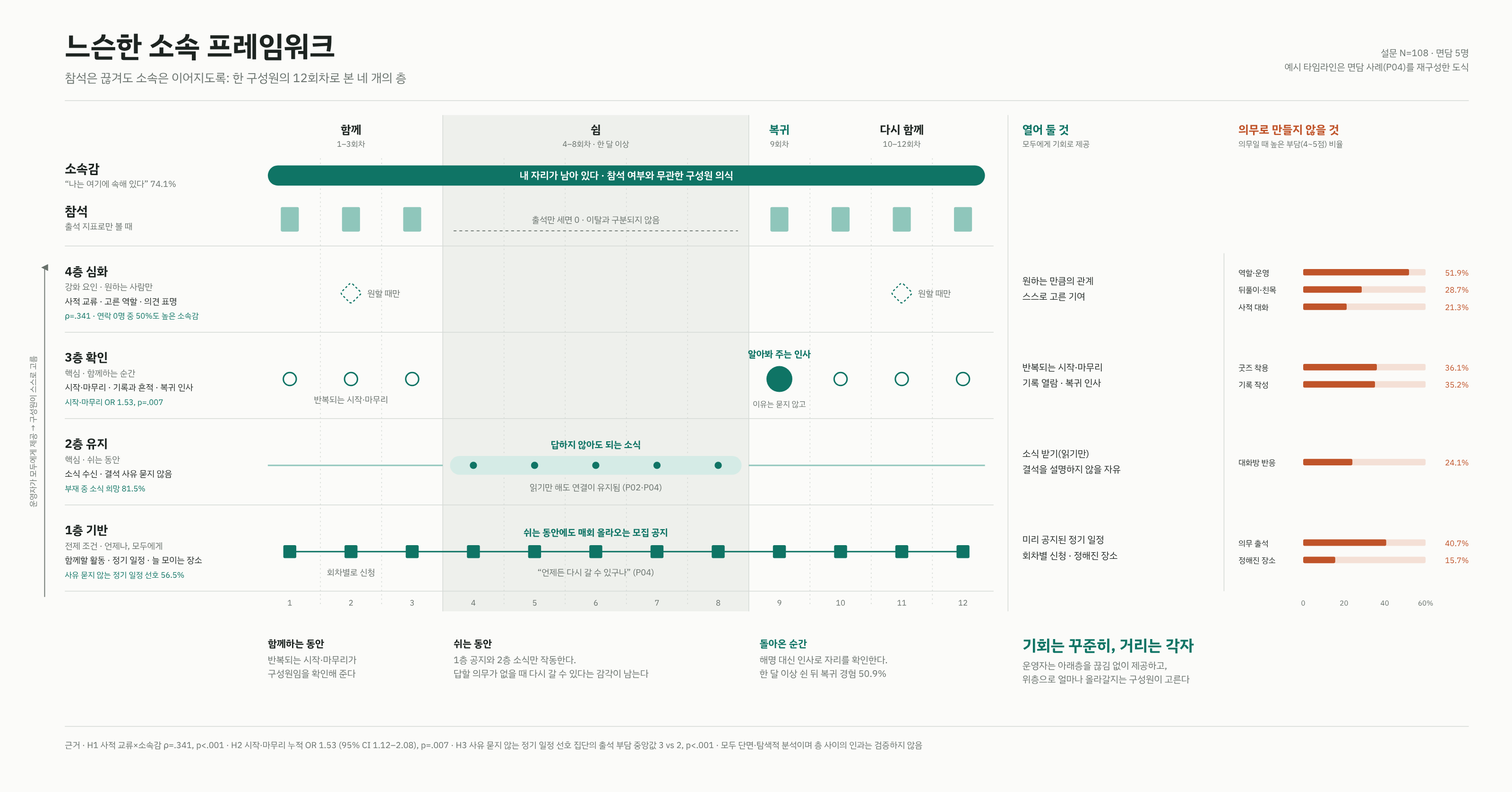
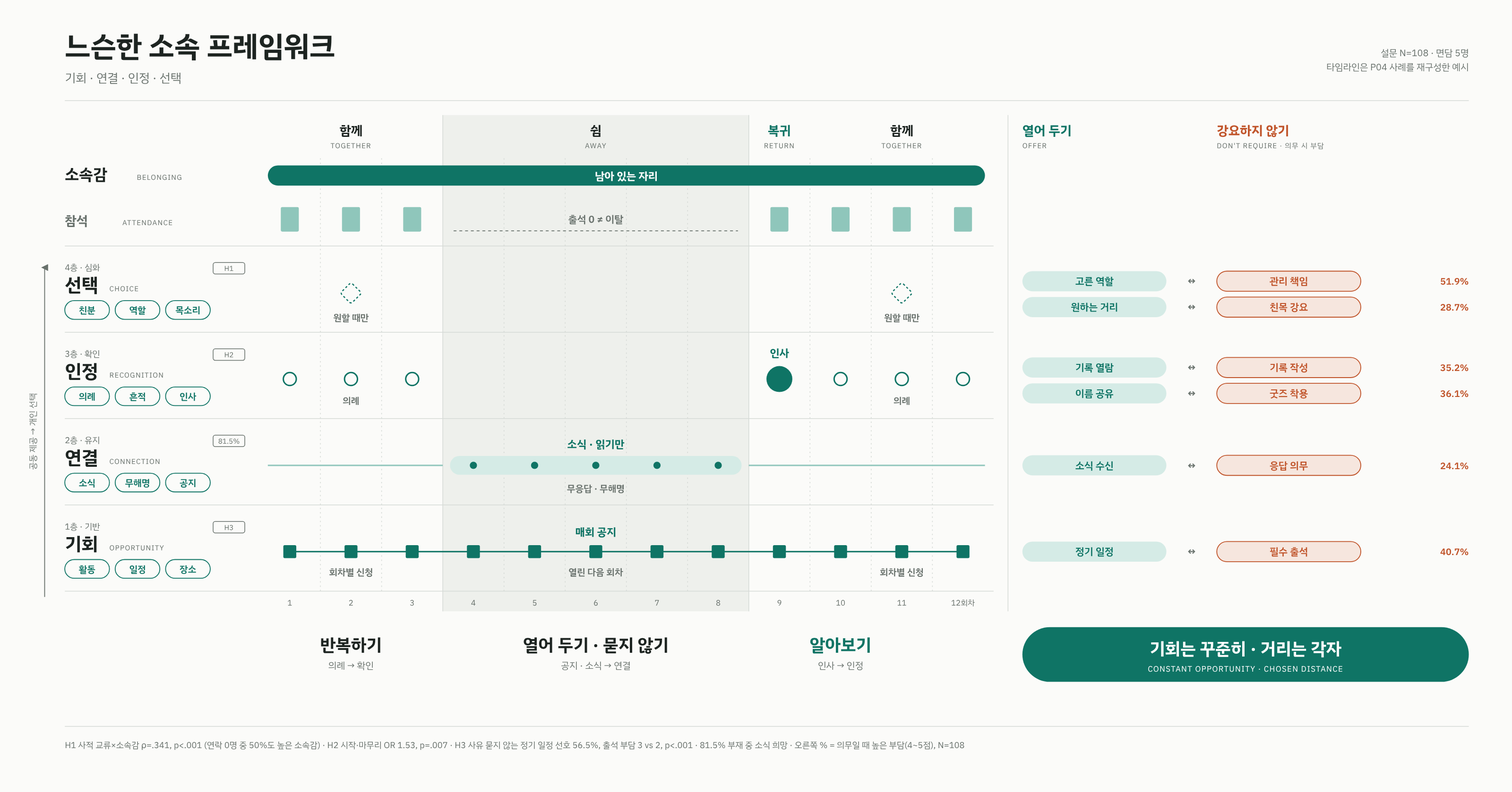
Restructure framework diagram around keywords
Claude-Session: https://claude.ai/code/session_01UNjDKvkuGLDcrXf3LnVk2t

diff --git a/thesis-framework/framework-poster.html b/thesis-framework/framework-poster.html
@@ -3,22 +3,22 @@
 <link rel="preconnect" href="https://fonts.googleapis.com">
 <link rel="stylesheet" href="https://fonts.googleapis.com/css2?family=IBM+Plex+Sans+KR:wght@400;500;600;700&display=swap">
 <style>
-/* Layout: one member's 12-session timeline as a score. Rows = layers (bottom: offered to all, top: chosen by each);
-   columns = time (together / away / back). Right margin = what to offer vs. what not to make mandatory. */
+/* Layout: keyword score. Rows = four layers (bottom: offered to all → top: chosen by each), columns = one member's 12 sessions
+   (together / away / back). Every label is a keyword; numbers live in small tags and the footnote. */
 :root{
   --bg:#fbfbf9; --ink:#1d2421; --muted:#68716c; --line:#d5dad6;
   --accent:#0f7465; --accent-soft:#d5ebe6; --accent-mid:#8fc6bb; --on-accent:#ffffff;
-  --burden:#c0542a; --burden-soft:#f4e0d6; --away:#eef0ec;
+  --burden:#c0542a; --burden-soft:#f6e6de; --away:#eef0ec;
   --ko:"IBM Plex Sans KR","Apple SD Gothic Neo","Malgun Gothic",system-ui,sans-serif;
 }
 @media (prefers-color-scheme: dark){ :root:not([data-theme="light"]){
   --bg:#121614; --ink:#e3e8e5; --muted:#9aa39e; --line:#303833;
   --accent:#5cc2ae; --accent-soft:#173a33; --accent-mid:#2f7a6c; --on-accent:#0d1412;
-  --burden:#e98b60; --burden-soft:#3b2519; --away:#1a1f1c; color-scheme:dark }}
+  --burden:#e98b60; --burden-soft:#33221a; --away:#1a1f1c; color-scheme:dark }}
 :root[data-theme="dark"]{
   --bg:#121614; --ink:#e3e8e5; --muted:#9aa39e; --line:#303833;
   --accent:#5cc2ae; --accent-soft:#173a33; --accent-mid:#2f7a6c; --on-accent:#0d1412;
-  --burden:#e98b60; --burden-soft:#3b2519; --away:#1a1f1c; color-scheme:dark }
+  --burden:#e98b60; --burden-soft:#33221a; --away:#1a1f1c; color-scheme:dark }
 
 body{background:var(--bg);color:var(--ink);font-family:var(--ko);
   padding-left:max(16px,env(safe-area-inset-left,0px));padding-right:max(16px,env(safe-area-inset-right,0px));padding-block:24px 40px}
@@ -28,127 +28,151 @@ body{background:var(--bg);color:var(--ink);font-family:var(--ko);
 
 svg text{font-family:var(--ko);fill:var(--ink)}
 svg .mut{fill:var(--muted)} svg .acc{fill:var(--accent)} svg .bur{fill:var(--burden)} svg .on{fill:var(--on-accent)}
-svg .bg{fill:var(--bg)}
+svg .en{letter-spacing:.08em}
 svg .away{fill:var(--away)}
 svg .rule{stroke:var(--line);stroke-width:1;fill:none}
 svg .grid{stroke:var(--line);stroke-width:1;stroke-dasharray:2 4;fill:none}
 svg .fillA{fill:var(--accent)} svg .fillS{fill:var(--accent-soft)} svg .fillM{fill:var(--accent-mid)}
-svg .strA{stroke:var(--accent);fill:none;stroke-width:2}
 svg .ring{fill:var(--bg);stroke:var(--accent);stroke-width:2}
 svg .opt{fill:var(--bg);stroke:var(--accent);stroke-width:1.6;stroke-dasharray:3 3}
 svg .ghost{fill:none;stroke:var(--muted);stroke-width:1.2;stroke-dasharray:4 4}
-svg .btrack{fill:var(--burden-soft)} svg .bfill{fill:var(--burden)}
+svg .chip{fill:var(--bg);stroke:var(--accent);stroke-width:1.2}
+svg .chipS{fill:var(--accent-soft);stroke:none}
+svg .chipB{fill:var(--burden-soft);stroke:var(--burden);stroke-width:1.2}
+svg .tag{fill:none;stroke:var(--muted);stroke-width:1}
 svg .arrowM{fill:var(--muted)}
 </style>
 
 <div class="fig">
-<svg viewBox="0 0 2100 1100" role="img" aria-label="한 구성원의 12회차 타임라인 위에 네 개의 층이 언제 작동하는지 보여주는 느슨한 소속 프레임워크">
+<svg viewBox="0 0 2100 1100" role="img" aria-label="키워드로 정리한 느슨한 소속 프레임워크: 네 층(기회, 연결, 인정, 선택)이 함께, 쉼, 복귀의 시간 위에서 작동하는 방식">
 <defs>
   <marker id="up" viewBox="0 0 10 10" refX="5" refY="5" markerWidth="8" markerHeight="8" orient="auto"><path class="arrowM" d="M0,10 L5,0 L10,10 z"/></marker>
 </defs>
 
 <!-- ===== Title ===== -->
 <text x="90" y="78" font-size="40" font-weight="700">느슨한 소속 프레임워크</text>
-<text x="90" y="114" font-size="17" class="mut">참석은 끊겨도 소속은 이어지도록: 한 구성원의 12회차로 본 네 개의 층</text>
+<text x="90" y="114" font-size="17" class="mut">기회 · 연결 · 인정 · 선택</text>
 <text x="2040" y="78" text-anchor="end" font-size="13" class="mut">설문 N=108 · 면담 5명</text>
-<text x="2040" y="98" text-anchor="end" font-size="13" class="mut">예시 타임라인은 면담 사례(P04)를 재구성한 도식</text>
+<text x="2040" y="98" text-anchor="end" font-size="13" class="mut">타임라인은 P04 사례를 재구성한 예시</text>
 <line class="rule" x1="90" y1="140" x2="2040" y2="140"/>
 
 <!-- ===== Absence shading ===== -->
 <rect class="away" x="615" y="160" width="425" height="690"/>
 
 <!-- ===== Column headers ===== -->
-<g font-size="16" font-weight="700" text-anchor="middle">
-  <text x="487.5" y="186">함께</text>
-  <text x="827.5" y="186">쉼</text>
-  <text x="1082.5" y="186" class="acc">복귀</text>
-  <text x="1252.5" y="186">다시 함께</text>
+<g font-size="18" font-weight="700" text-anchor="middle">
+  <text x="487.5" y="188">함께</text>
+  <text x="827.5" y="188">쉼</text>
+  <text x="1082.5" y="188" class="acc">복귀</text>
+  <text x="1252.5" y="188">함께</text>
 </g>
-<g font-size="11" text-anchor="middle" class="mut">
-  <text x="487.5" y="204" class="mut">1–3회차</text>
-  <text x="827.5" y="204" class="mut">4–8회차 · 한 달 이상</text>
-  <text x="1082.5" y="204" class="mut">9회차</text>
-  <text x="1252.5" y="204" class="mut">10–12회차</text>
+<g font-size="10" text-anchor="middle" class="en">
+  <text x="487.5" y="206" class="en mut">TOGETHER</text>
+  <text x="827.5" y="206" class="en mut">AWAY</text>
+  <text x="1082.5" y="206" class="en mut">RETURN</text>
+  <text x="1252.5" y="206" class="en mut">TOGETHER</text>
 </g>
-<text x="1420" y="186" font-size="16" font-weight="700" class="acc">열어 둘 것</text>
-<text x="1420" y="204" font-size="11" class="mut">모두에게 기회로 제공</text>
-<text x="1720" y="186" font-size="16" font-weight="700" class="bur">의무로 만들지 않을 것</text>
-<text x="1720" y="204" font-size="11" class="mut">의무일 때 높은 부담(4~5점) 비율</text>
+<text x="1420" y="188" font-size="18" font-weight="700" class="acc">열어 두기</text>
+<text x="1420" y="206" font-size="10" class="en mut">OFFER</text>
+<text x="1690" y="188" font-size="18" font-weight="700" class="bur">강요하지 않기</text>
+<text x="1690" y="206" font-size="10" class="en mut">DON'T REQUIRE · 의무 시 부담</text>
 
 <!-- week grid -->
 <g class="grid">
-  <line x1="445" y1="220" x2="445" y2="840"/><line x1="530" y1="220" x2="530" y2="840"/>
-  <line x1="700" y1="220" x2="700" y2="840"/><line x1="785" y1="220" x2="785" y2="840"/>
-  <line x1="870" y1="220" x2="870" y2="840"/><line x1="955" y1="220" x2="955" y2="840"/>
-  <line x1="1125" y1="220" x2="1125" y2="840"/><line x1="1210" y1="220" x2="1210" y2="840"/><line x1="1295" y1="220" x2="1295" y2="840"/>
+  <line x1="445" y1="220" x2="445" y2="822"/><line x1="530" y1="220" x2="530" y2="822"/>
+  <line x1="700" y1="220" x2="700" y2="822"/><line x1="785" y1="220" x2="785" y2="822"/>
+  <line x1="870" y1="220" x2="870" y2="822"/><line x1="955" y1="220" x2="955" y2="822"/>
+  <line x1="1125" y1="220" x2="1125" y2="822"/><line x1="1210" y1="220" x2="1210" y2="822"/><line x1="1295" y1="220" x2="1295" y2="822"/>
 </g>
 <line class="rule" x1="615" y1="160" x2="615" y2="850"/><line class="rule" x1="1040" y1="160" x2="1040" y2="850"/>
 
 <!-- ===== Row: 소속감 ===== -->
-<text x="90" y="241" font-size="18" font-weight="700">소속감</text>
-<text x="90" y="260" font-size="12" class="mut">“나는 여기에 속해 있다” 74.1%</text>
+<text x="90" y="250" font-size="22" font-weight="700">소속감</text>
+<text x="190" y="250" font-size="10" class="en mut">BELONGING</text>
 <rect class="fillA" x="372" y="230" width="996" height="28" rx="14"/>
-<text x="870" y="249" text-anchor="middle" font-size="14" font-weight="600" class="on">내 자리가 남아 있다 · 참석 여부와 무관한 구성원 의식</text>
+<text x="870" y="250" text-anchor="middle" font-size="15" font-weight="700" class="on">남아 있는 자리</text>
 
 <!-- ===== Row: 참석 ===== -->
-<text x="90" y="300" font-size="18" font-weight="700">참석</text>
-<text x="90" y="319" font-size="12" class="mut">출석 지표로만 볼 때</text>
+<text x="90" y="313" font-size="18" font-weight="700" class="mut">참석</text>
+<text x="170" y="313" font-size="10" class="en mut">ATTENDANCE</text>
 <g class="fillM">
   <rect x="390" y="288" width="25" height="34" rx="2"/><rect x="475" y="288" width="25" height="34" rx="2"/><rect x="560" y="288" width="25" height="34" rx="2"/>
   <rect x="1070" y="288" width="25" height="34" rx="2"/><rect x="1155" y="288" width="25" height="34" rx="2"/><rect x="1240" y="288" width="25" height="34" rx="2"/><rect x="1325" y="288" width="25" height="34" rx="2"/>
 </g>
 <line class="ghost" x1="630" y1="321" x2="1025" y2="321"/>
-<text x="827.5" y="310" text-anchor="middle" font-size="12" class="mut">출석만 세면 0 · 이탈과 구분되지 않음</text>
+<text x="827.5" y="310" text-anchor="middle" font-size="14" font-weight="600" class="mut">출석 0 ≠ 이탈</text>
 <line class="rule" x1="90" y1="342" x2="1380" y2="342"/>
 
 <!-- ===== Layer axis ===== -->
 <line x1="62" y1="830" x2="62" y2="372" stroke="var(--muted)" stroke-width="1.2" marker-end="url(#up)"/>
-<text transform="translate(50 600) rotate(-90)" text-anchor="middle" font-size="11" class="mut">운영자가 모두에게 제공 → 구성원이 스스로 고름</text>
+<text transform="translate(50 600) rotate(-90)" text-anchor="middle" font-size="12" class="mut">공동 제공 → 개인 선택</text>
 
-<!-- ===== L4 심화 (y 352–462, mid 407) ===== -->
-<text x="90" y="383" font-size="17" font-weight="700">4층 심화</text>
-<text x="90" y="403" font-size="12" class="mut">강화 요인 · 원하는 사람만</text>
-<text x="90" y="423" font-size="12">사적 교류 · 고른 역할 · 의견 표명</text>
-<text x="90" y="443" font-size="11" class="acc">ρ=.341 · 연락 0명 중 50%도 높은 소속감</text>
+<!-- ===== Layer labels (number · keyword · english · chips · evidence) ===== -->
+<!-- L4 mid 407 -->
+<text x="90" y="376" font-size="12" class="mut">4층 · 심화</text>
+<rect class="tag" x="296" y="365" width="44" height="16" rx="3"/><text x="318" y="377" text-anchor="middle" font-size="10" class="mut">H1</text>
+<text x="90" y="405" font-size="26" font-weight="700">선택</text>
+<text x="152" y="405" font-size="10" class="en mut">CHOICE</text>
+<g font-size="13" font-weight="600" text-anchor="middle">
+  <rect class="chip" x="90" y="418" width="62" height="26" rx="13"/><text x="121" y="436" class="acc">친분</text>
+  <rect class="chip" x="160" y="418" width="62" height="26" rx="13"/><text x="191" y="436" class="acc">역할</text>
+  <rect class="chip" x="230" y="418" width="62" height="26" rx="13"/><text x="261" y="436" class="acc">목소리</text>
+</g>
+<!-- L3 mid 527 -->
+<text x="90" y="496" font-size="12" class="mut">3층 · 확인</text>
+<rect class="tag" x="296" y="485" width="44" height="16" rx="3"/><text x="318" y="497" text-anchor="middle" font-size="10" class="mut">H2</text>
+<text x="90" y="525" font-size="26" font-weight="700">인정</text>
+<text x="152" y="525" font-size="10" class="en mut">RECOGNITION</text>
+<g font-size="13" font-weight="600" text-anchor="middle">
+  <rect class="chip" x="90" y="538" width="62" height="26" rx="13"/><text x="121" y="556" class="acc">의례</text>
+  <rect class="chip" x="160" y="538" width="62" height="26" rx="13"/><text x="191" y="556" class="acc">흔적</text>
+  <rect class="chip" x="230" y="538" width="62" height="26" rx="13"/><text x="261" y="556" class="acc">인사</text>
+</g>
+<!-- L2 mid 647 -->
+<text x="90" y="616" font-size="12" class="mut">2층 · 유지</text>
+<rect class="tag" x="296" y="605" width="44" height="16" rx="3"/><text x="318" y="617" text-anchor="middle" font-size="10" class="mut">81.5%</text>
+<text x="90" y="645" font-size="26" font-weight="700">연결</text>
+<text x="152" y="645" font-size="10" class="en mut">CONNECTION</text>
+<g font-size="13" font-weight="600" text-anchor="middle">
+  <rect class="chip" x="90" y="658" width="62" height="26" rx="13"/><text x="121" y="676" class="acc">소식</text>
+  <rect class="chip" x="160" y="658" width="62" height="26" rx="13"/><text x="191" y="676" class="acc">무해명</text>
+  <rect class="chip" x="230" y="658" width="62" height="26" rx="13"/><text x="261" y="676" class="acc">공지</text>
+</g>
+<!-- L1 mid 767 -->
+<text x="90" y="736" font-size="12" class="mut">1층 · 기반</text>
+<rect class="tag" x="296" y="725" width="44" height="16" rx="3"/><text x="318" y="737" text-anchor="middle" font-size="10" class="mut">H3</text>
+<text x="90" y="765" font-size="26" font-weight="700">기회</text>
+<text x="152" y="765" font-size="10" class="en mut">OPPORTUNITY</text>
+<g font-size="13" font-weight="600" text-anchor="middle">
+  <rect class="chip" x="90" y="778" width="62" height="26" rx="13"/><text x="121" y="796" class="acc">활동</text>
+  <rect class="chip" x="160" y="778" width="62" height="26" rx="13"/><text x="191" y="796" class="acc">일정</text>
+  <rect class="chip" x="230" y="778" width="62" height="26" rx="13"/><text x="261" y="796" class="acc">장소</text>
+</g>
+<g><line class="rule" x1="90" y1="462" x2="1380" y2="462"/><line class="rule" x1="90" y1="582" x2="1380" y2="582"/><line class="rule" x1="90" y1="702" x2="1380" y2="702"/><line class="rule" x1="90" y1="822" x2="1380" y2="822"/></g>
+
+<!-- ===== L4 marks ===== -->
 <rect class="opt" x="477" y="397" width="21" height="21" rx="3" transform="rotate(45 487.5 407.5)"/>
 <rect class="opt" x="1242" y="397" width="21" height="21" rx="3" transform="rotate(45 1252.5 407.5)"/>
-<text x="510" y="412" font-size="12" class="mut">원할 때만</text>
-<text x="1275" y="412" font-size="12" class="mut">원할 때만</text>
-<line class="rule" x1="90" y1="462" x2="1380" y2="462"/>
+<text x="487.5" y="446" text-anchor="middle" font-size="13" font-weight="600" class="mut">원할 때만</text>
+<text x="1252.5" y="446" text-anchor="middle" font-size="13" font-weight="600" class="mut">원할 때만</text>
 
-<!-- ===== L3 확인 (mid 527) ===== -->
-<text x="90" y="503" font-size="17" font-weight="700">3층 확인</text>
-<text x="90" y="523" font-size="12" class="mut">핵심 · 함께하는 순간</text>
-<text x="90" y="543" font-size="12">시작·마무리 · 기록과 흔적 · 복귀 인사</text>
-<text x="90" y="563" font-size="11" class="acc">시작·마무리 OR 1.53, p=.007</text>
-<g>
-  <circle class="ring" cx="402.5" cy="527" r="9"/><circle class="ring" cx="487.5" cy="527" r="9"/><circle class="ring" cx="572.5" cy="527" r="9"/>
-  <circle class="ring" cx="1167.5" cy="527" r="9"/><circle class="ring" cx="1252.5" cy="527" r="9"/><circle class="ring" cx="1337.5" cy="527" r="9"/>
-  <circle class="fillA" cx="1082.5" cy="527" r="18"/>
-</g>
-<text x="487.5" y="560" text-anchor="middle" font-size="12" class="mut">반복되는 시작·마무리</text>
-<text x="1082.5" y="497" text-anchor="middle" font-size="13" font-weight="700" class="acc">알아봐 주는 인사</text>
-<text x="1082.5" y="566" text-anchor="middle" font-size="11" class="mut">이유는 묻지 않고</text>
-<line class="rule" x1="90" y1="582" x2="1380" y2="582"/>
+<!-- ===== L3 marks ===== -->
+<circle class="ring" cx="402.5" cy="527" r="9"/><circle class="ring" cx="487.5" cy="527" r="9"/><circle class="ring" cx="572.5" cy="527" r="9"/>
+<circle class="ring" cx="1167.5" cy="527" r="9"/><circle class="ring" cx="1252.5" cy="527" r="9"/><circle class="ring" cx="1337.5" cy="527" r="9"/>
+<circle class="fillA" cx="1082.5" cy="527" r="18"/>
+<text x="487.5" y="562" text-anchor="middle" font-size="13" font-weight="600" class="mut">의례</text>
+<text x="1082.5" y="496" text-anchor="middle" font-size="15" font-weight="700" class="acc">인사</text>
+<text x="1252.5" y="562" text-anchor="middle" font-size="13" font-weight="600" class="mut">의례</text>
 
-<!-- ===== L2 유지 (mid 647) ===== -->
-<text x="90" y="623" font-size="17" font-weight="700">2층 유지</text>
-<text x="90" y="643" font-size="12" class="mut">핵심 · 쉬는 동안</text>
-<text x="90" y="663" font-size="12">소식 수신 · 결석 사유 묻지 않음</text>
-<text x="90" y="683" font-size="11" class="acc">부재 중 소식 희망 81.5%</text>
+<!-- ===== L2 marks ===== -->
 <line x1="372" y1="647" x2="615" y2="647" stroke="var(--accent-mid)" stroke-width="2"/>
 <line x1="1040" y1="647" x2="1368" y2="647" stroke="var(--accent-mid)" stroke-width="2"/>
 <rect class="fillS" x="625" y="634" width="405" height="26" rx="13"/>
 <g class="fillA"><circle cx="657.5" cy="647" r="5"/><circle cx="742.5" cy="647" r="5"/><circle cx="827.5" cy="647" r="5"/><circle cx="912.5" cy="647" r="5"/><circle cx="997.5" cy="647" r="5"/></g>
-<text x="827.5" y="623" text-anchor="middle" font-size="13" font-weight="700" class="acc">답하지 않아도 되는 소식</text>
-<text x="827.5" y="682" text-anchor="middle" font-size="12" class="mut">읽기만 해도 연결이 유지됨 (P02·P04)</text>
-<line class="rule" x1="90" y1="702" x2="1380" y2="702"/>
+<text x="827.5" y="623" text-anchor="middle" font-size="15" font-weight="700" class="acc">소식 · 읽기만</text>
+<text x="827.5" y="684" text-anchor="middle" font-size="13" font-weight="600" class="mut">무응답 · 무해명</text>
 
-<!-- ===== L1 기반 (mid 767) ===== -->
-<text x="90" y="743" font-size="17" font-weight="700">1층 기반</text>
-<text x="90" y="763" font-size="12" class="mut">전제 조건 · 언제나, 모두에게</text>
-<text x="90" y="783" font-size="12">함께할 활동 · 정기 일정 · 늘 모이는 장소</text>
-<text x="90" y="803" font-size="11" class="acc">사유 묻지 않는 정기 일정 선호 56.5%</text>
+<!-- ===== L1 marks ===== -->
 <line x1="402.5" y1="767" x2="1337.5" y2="767" stroke="var(--accent)" stroke-width="2"/>
 <g class="fillA">
   <rect x="393.5" y="758" width="18" height="18" rx="2"/><rect x="478.5" y="758" width="18" height="18" rx="2"/><rect x="563.5" y="758" width="18" height="18" rx="2"/>
@@ -156,63 +180,64 @@ svg .arrowM{fill:var(--muted)}
   <rect x="903.5" y="758" width="18" height="18" rx="2"/><rect x="988.5" y="758" width="18" height="18" rx="2"/><rect x="1073.5" y="758" width="18" height="18" rx="2"/>
   <rect x="1158.5" y="758" width="18" height="18" rx="2"/><rect x="1243.5" y="758" width="18" height="18" rx="2"/><rect x="1328.5" y="758" width="18" height="18" rx="2"/>
 </g>
-<text x="827.5" y="745" text-anchor="middle" font-size="13" font-weight="700" class="acc">쉬는 동안에도 매회 올라오는 모집 공지</text>
-<text x="827.5" y="800" text-anchor="middle" font-size="12" class="mut">“언제든 다시 갈 수 있구나” (P04)</text>
-<text x="487.5" y="800" text-anchor="middle" font-size="12" class="mut">회차별로 신청</text>
-<line class="rule" x1="90" y1="822" x2="1380" y2="822"/>
-<g font-size="11" text-anchor="middle" class="mut">
+<text x="827.5" y="745" text-anchor="middle" font-size="15" font-weight="700" class="acc">매회 공지</text>
+<text x="827.5" y="800" text-anchor="middle" font-size="13" font-weight="600" class="mut">열린 다음 회차</text>
+<text x="487.5" y="800" text-anchor="middle" font-size="13" font-weight="600" class="mut">회차별 신청</text>
+<text x="1252.5" y="800" text-anchor="middle" font-size="13" font-weight="600" class="mut">회차별 신청</text>
+<g font-size="11" text-anchor="middle">
   <text x="402.5" y="842" class="mut">1</text><text x="487.5" y="842" class="mut">2</text><text x="572.5" y="842" class="mut">3</text><text x="657.5" y="842" class="mut">4</text>
   <text x="742.5" y="842" class="mut">5</text><text x="827.5" y="842" class="mut">6</text><text x="912.5" y="842" class="mut">7</text><text x="997.5" y="842" class="mut">8</text>
-  <text x="1082.5" y="842" class="mut">9</text><text x="1167.5" y="842" class="mut">10</text><text x="1252.5" y="842" class="mut">11</text><text x="1337.5" y="842" class="mut">12</text>
+  <text x="1082.5" y="842" class="mut">9</text><text x="1167.5" y="842" class="mut">10</text><text x="1252.5" y="842" class="mut">11</text><text x="1337.5" y="842" class="mut">12회차</text>
 </g>
 
-<!-- ===== Right margin: offer vs. not mandatory ===== -->
+<!-- ===== Right margin: keyword pairs ===== -->
 <line class="rule" x1="1400" y1="160" x2="1400" y2="850"/>
-<line class="rule" x1="1700" y1="352" x2="1700" y2="822"/>
-<g font-size="13">
-  <text x="1420" y="395">원하는 만큼의 관계</text><text x="1420" y="417">스스로 고른 기여</text>
-  <text x="1420" y="515">반복되는 시작·마무리</text><text x="1420" y="537">기록 열람 · 복귀 인사</text>
-  <text x="1420" y="635">소식 받기(읽기만)</text><text x="1420" y="657">결석을 설명하지 않을 자유</text>
-  <text x="1420" y="755">미리 공지된 정기 일정</text><text x="1420" y="777">회차별 신청 · 정해진 장소</text>
+<g font-size="14" font-weight="600" text-anchor="middle">
+  <!-- L4 -->
+  <rect class="chipS" x="1420" y="377" width="200" height="28" rx="14"/><text x="1520" y="396" class="acc">고른 역할</text>
+  <text x="1655" y="396" class="mut">↔</text>
+  <rect class="chipB" x="1690" y="377" width="200" height="28" rx="14"/><text x="1790" y="396" class="bur">관리 책임</text>
+  <rect class="chipS" x="1420" y="413" width="200" height="28" rx="14"/><text x="1520" y="432" class="acc">원하는 거리</text>
+  <text x="1655" y="432" class="mut">↔</text>
+  <rect class="chipB" x="1690" y="413" width="200" height="28" rx="14"/><text x="1790" y="432" class="bur">친목 강요</text>
+  <!-- L3 -->
+  <rect class="chipS" x="1420" y="497" width="200" height="28" rx="14"/><text x="1520" y="516" class="acc">기록 열람</text>
+  <text x="1655" y="516" class="mut">↔</text>
+  <rect class="chipB" x="1690" y="497" width="200" height="28" rx="14"/><text x="1790" y="516" class="bur">기록 작성</text>
+  <rect class="chipS" x="1420" y="533" width="200" height="28" rx="14"/><text x="1520" y="552" class="acc">이름 공유</text>
+  <text x="1655" y="552" class="mut">↔</text>
+  <rect class="chipB" x="1690" y="533" width="200" height="28" rx="14"/><text x="1790" y="552" class="bur">굿즈 착용</text>
+  <!-- L2 -->
+  <rect class="chipS" x="1420" y="633" width="200" height="28" rx="14"/><text x="1520" y="652" class="acc">소식 수신</text>
+  <text x="1655" y="652" class="mut">↔</text>
+  <rect class="chipB" x="1690" y="633" width="200" height="28" rx="14"/><text x="1790" y="652" class="bur">응답 의무</text>
+  <!-- L1 -->
+  <rect class="chipS" x="1420" y="753" width="200" height="28" rx="14"/><text x="1520" y="772" class="acc">정기 일정</text>
+  <text x="1655" y="772" class="mut">↔</text>
+  <rect class="chipB" x="1690" y="753" width="200" height="28" rx="14"/><text x="1790" y="772" class="bur">필수 출석</text>
 </g>
-<!-- bars: scale 0–60% over 170px from x=1810 -->
-<g font-size="11">
-  <text x="1720" y="383">역할·운영</text><rect class="btrack" x="1810" y="374" width="170" height="9" rx="2"/><rect class="bfill" x="1810" y="374" width="147" height="9" rx="2"/><text x="2040" y="383" text-anchor="end" class="bur">51.9%</text>
-  <text x="1720" y="407">뒤풀이·친목</text><rect class="btrack" x="1810" y="398" width="170" height="9" rx="2"/><rect class="bfill" x="1810" y="398" width="81.3" height="9" rx="2"/><text x="2040" y="407" text-anchor="end" class="bur">28.7%</text>
-  <text x="1720" y="431">사적 대화</text><rect class="btrack" x="1810" y="422" width="170" height="9" rx="2"/><rect class="bfill" x="1810" y="422" width="60.4" height="9" rx="2"/><text x="2040" y="431" text-anchor="end" class="bur">21.3%</text>
-
-  <text x="1720" y="515">굿즈 착용</text><rect class="btrack" x="1810" y="506" width="170" height="9" rx="2"/><rect class="bfill" x="1810" y="506" width="102.3" height="9" rx="2"/><text x="2040" y="515" text-anchor="end" class="bur">36.1%</text>
-  <text x="1720" y="539">기록 작성</text><rect class="btrack" x="1810" y="530" width="170" height="9" rx="2"/><rect class="bfill" x="1810" y="530" width="99.7" height="9" rx="2"/><text x="2040" y="539" text-anchor="end" class="bur">35.2%</text>
-
-  <text x="1720" y="647">대화방 반응</text><rect class="btrack" x="1810" y="638" width="170" height="9" rx="2"/><rect class="bfill" x="1810" y="638" width="68.3" height="9" rx="2"/><text x="2040" y="647" text-anchor="end" class="bur">24.1%</text>
-
-  <text x="1720" y="759">의무 출석</text><rect class="btrack" x="1810" y="750" width="170" height="9" rx="2"/><rect class="bfill" x="1810" y="750" width="115.3" height="9" rx="2"/><text x="2040" y="759" text-anchor="end" class="bur">40.7%</text>
-  <text x="1720" y="783">정해진 장소</text><rect class="btrack" x="1810" y="774" width="170" height="9" rx="2"/><rect class="bfill" x="1810" y="774" width="44.5" height="9" rx="2"/><text x="2040" y="783" text-anchor="end" class="bur">15.7%</text>
-</g>
-<g font-size="10" class="mut" text-anchor="middle">
-  <text x="1810" y="842" class="mut">0</text><text x="1866.7" y="842" class="mut">20</text><text x="1923.3" y="842" class="mut">40</text><text x="1980" y="842" class="mut">60%</text>
+<g font-size="13" font-weight="600" text-anchor="end">
+  <text x="2040" y="396" class="bur">51.9%</text><text x="2040" y="432" class="bur">28.7%</text>
+  <text x="2040" y="516" class="bur">35.2%</text><text x="2040" y="552" class="bur">36.1%</text>
+  <text x="2040" y="652" class="bur">24.1%</text>
+  <text x="2040" y="772" class="bur">40.7%</text>
 </g>
 
-<!-- ===== Reading by moment ===== -->
-<g>
-  <text x="372" y="900" font-size="14" font-weight="700">함께하는 동안</text>
-  <text x="372" y="922" font-size="13" class="mut">반복되는 시작·마무리가</text>
-  <text x="372" y="941" font-size="13" class="mut">구성원임을 확인해 준다</text>
-
-  <text x="630" y="900" font-size="14" font-weight="700">쉬는 동안</text>
-  <text x="630" y="922" font-size="13" class="mut">1층 공지와 2층 소식만 작동한다.</text>
-  <text x="630" y="941" font-size="13" class="mut">답할 의무가 없을 때 다시 갈 수 있다는 감각이 남는다</text>
-
-  <text x="1055" y="900" font-size="14" font-weight="700" class="acc">돌아온 순간</text>
-  <text x="1055" y="922" font-size="13" class="mut">해명 대신 인사로 자리를 확인한다.</text>
-  <text x="1055" y="941" font-size="13" class="mut">한 달 이상 쉰 뒤 복귀 경험 50.9%</text>
+<!-- ===== Design verbs by moment ===== -->
+<g text-anchor="middle">
+  <text x="487.5" y="905" font-size="24" font-weight="700">반복하기</text>
+  <text x="487.5" y="930" font-size="13" class="mut">의례 → 확인</text>
+  <text x="827.5" y="905" font-size="24" font-weight="700">열어 두기 · 묻지 않기</text>
+  <text x="827.5" y="930" font-size="13" class="mut">공지 · 소식 → 연결</text>
+  <text x="1167.5" y="905" font-size="24" font-weight="700" class="acc">알아보기</text>
+  <text x="1167.5" y="930" font-size="13" class="mut">인사 → 인정</text>
 </g>
-<text x="1420" y="905" font-size="22" font-weight="700" class="acc">기회는 꾸준히, 거리는 각자</text>
-<text x="1420" y="930" font-size="13" class="mut">운영자는 아래층을 끊김 없이 제공하고,</text>
-<text x="1420" y="949" font-size="13" class="mut">위층으로 얼마나 올라갈지는 구성원이 고른다</text>
+<rect class="fillA" x="1420" y="872" width="620" height="76" rx="38"/>
+<text x="1730" y="910" text-anchor="middle" font-size="24" font-weight="700" class="on">기회는 꾸준히 · 거리는 각자</text>
+<text x="1730" y="934" text-anchor="middle" font-size="11" class="en on">CONSTANT OPPORTUNITY · CHOSEN DISTANCE</text>
 
 <line class="rule" x1="90" y1="1010" x2="2040" y2="1010"/>
-<text x="90" y="1040" font-size="12" class="mut">근거 · H1 사적 교류×소속감 ρ=.341, p&lt;.001 · H2 시작·마무리 누적 OR 1.53 (95% CI 1.12–2.08), p=.007 · H3 사유 묻지 않는 정기 일정 선호 집단의 출석 부담 중앙값 3 vs 2, p&lt;.001 · 모두 단면·탐색적 분석이며 층 사이의 인과는 검증하지 않음</text>
+<text x="90" y="1040" font-size="12" class="mut">H1 사적 교류×소속감 ρ=.341, p&lt;.001 (연락 0명 중 50%도 높은 소속감) · H2 시작·마무리 OR 1.53, p=.007 · H3 사유 묻지 않는 정기 일정 선호 56.5%, 출석 부담 3 vs 2, p&lt;.001 · 81.5% 부재 중 소식 희망 · 오른쪽 % = 의무일 때 높은 부담(4~5점), N=108</text>
 </svg>
 </div>
-<p class="note">가로축은 한 구성원이 참여하고, 한 달 넘게 쉬고, 다시 돌아오는 12회차입니다. 세로축은 아래로 갈수록 운영자가 모두에게 꾸준히 제공하는 층, 위로 갈수록 구성원이 원할 때만 고르는 층입니다. 오른쪽 여백은 층마다 열어 둘 기회와 의무로 만들면 부담이 되는 요소를 짝지었습니다.</p>
+<p class="note">가로축은 한 구성원의 12회차(함께 → 쉼 → 복귀 → 함께), 세로축은 네 층입니다. 아래(기회)일수록 운영자가 모두에게 꾸준히 제공하고, 위(선택)일수록 구성원이 원할 때만 고릅니다. 오른쪽은 층마다 열어 둘 키워드와 강요하지 않을 키워드의 짝입니다.</p>
